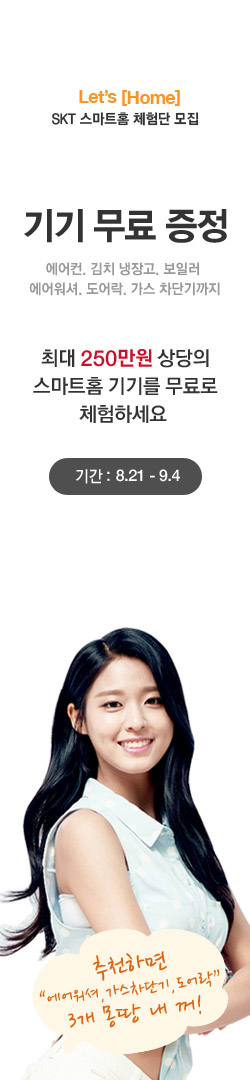
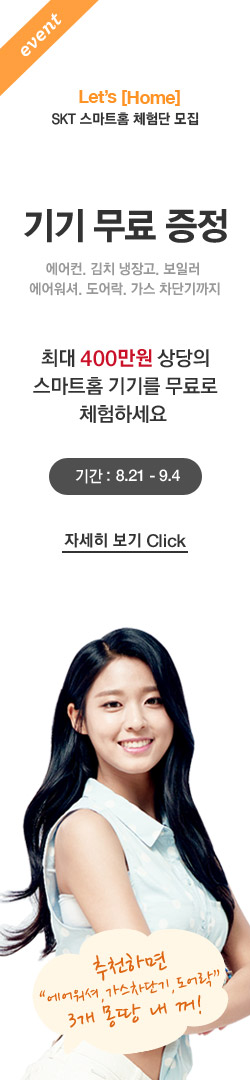
#수정 요청사항 반영 -이벤트 이미지 변경 -CF 작은 창으로 보기 -실명인증 후 다시 실명인증 물어보는 문제 해결

Changed region(s): [[0.0, 0.0, 0.392, 0.0917], [0.252, 0.4889, 0.756, 0.5194], [0.308, 0.3056, 0.42, 0.3361]]

diff --git a/js/paymentPop.js b/js/paymentPop.js
@@ -186,8 +186,10 @@ function setTicketList(dataList, kind) {
 				output += '		</div>';
 				output += '		<div class="voucher-card-buttons">';
 			if(rnmCertYn != "Y") {	//실명인증 전이면
-				output += '			<button class="bt-purchase-credit" type="button" onclick=payPopupFail("realName")>신용카드 결제</button>';
-				output += '			<button class="bt-purchase-cell" type="button" onclick=payPopupFail("realName")>휴대폰 결제</button>';	
+				// output += '			<button class="bt-purchase-credit" type="button" onclick=payPopupFail("realName")>신용카드 결제</button>';
+				// output += '			<button class="bt-purchase-cell" type="button" onclick=payPopupFail("realName")>휴대폰 결제</button>';	기
+				output += '			<button class="bt-purchase-credit" type="button" onclick=retryRealNm("'+cardHref[i]+'","CD")>신용카드 결제</button>';
+				output += '			<button class="bt-purchase-cell" type="button" onclick=retryRealNm("'+hphoneHref[i]+'","HP")>휴대폰 결제</button>';					
 			} else {
 
 				if(dataList[i].dvcRegYn !='Y') {	//등록된 기기가 없으면
@@ -294,6 +296,11 @@ function payPopupFail(msgId) {
 
 	var templateId;
 
+	//실명인증 여부를 다시 조회하기 
+	if(msgId == 'realName') {
+
+	}
+
 		switch (msgId) {
 			case 'realName': templateId = 'dialog-name-verify-info';	//실명 인증 안내
 				break;
@@ -317,6 +324,36 @@ function payPopupFail(msgId) {
 			});				
 		}
 	})
+}
+
+//실명인증 여부를 다시 조회
+function retryRealNm(pgLink,pgType) {
+	var params = {}, url='v1/member/info', type='GET', dataType = 'json';
+	startMyInfoTransaction(url, type, dataType, function(response){
+		parseRealNmTransaction(response,pgLink,pgType);		
+	});	
+}
+
+function parseRealNmTransaction(response,pgLink,pgType) {
+	if (response.resultCd && response.resultMsg) {
+		if (response.resultCd == '1' && response.resultMsg == '성공') {
+			var rnmCertYn = response.rnmCertYn;
+			setRealNmCertYn(rnmCertYn);
+
+			if(rnmCertYn != 'Y') {
+				payPopupFail("realName");
+			} else {
+				//결제 팝업 띄우기
+				if(pgType == 'CD') {
+					window.open(pgLink,"카드결제","width=450,height=620,toolbar=no,menubar=no,location=no,status=no,scrollbars=no,resizable=no");
+				} else {
+					window.open(pgLink,"휴대폰결제","width=480,height=750,toolbar=no,menubar=no,location=no,status=no,scrollbars=no,resizable=no");				
+				}
+			}
+		} else {
+		}
+	} else {
+	}
 }
 
 //기기 등록 안내, 자동결제 완료 확인 팝업 : 비슷한 포맷 

diff --git a/html/home.html b/html/home.html
@@ -15,25 +15,18 @@
 <script type="text/javascript" src="../js/showroom.js"></script>
 <script type="text/javascript" src="../js/transaction.js"></script>
 <script type="text/javascript" src="../js/placeholders.min.js"></script>
-<script>
-	function ieVersionChk() {
-		U.dialog({
-			templateId: 'dialog-template-ie-support',
-			onOpen: function(context) {
-				$(context).find('.bt-confirm').on('click', function() {
-					U.dialog();
-				});
-			}
-		})
-	}
-
-	$('document').ready(function(){
-		var a = navigator.userAgent;
-			if (/MSIE 9.|MSIE 8.|MSIE 7./i.test(a)) {
-				ieVersionChk();
-			}	
-	});	
+<!-- 수정 시작 : 20150821_01 -->
+<script id="dialog-template-cf" type="text/x-dialog-template">
+	<div class="dialog dialog-video">
+		<button class="bt-dialog-close" type="button">Close</button>
+		<div class="dialog-body">
+			<div class="dialog-content-panel">
+				<iframe class="video-viewer" src="https://www.youtube.com/embed/M0za4b65wLY?autoplay=1" allowfullscreen></iframe>
+			</div>
+		</div>
+	</div>
 </script>
+<!-- 수정 종료 : 20150821_01 -->
 <script id="dialog-template-video" type="text/x-dialog-template">
 	<div class="dialog dialog-video">
 		<button class="bt-dialog-close" type="button">Close</button>
@@ -669,6 +662,15 @@
 			return false;
 		});
 
+		// 수정 시작 : 20150821_01
+		$('.show-cf').on('click', function() {
+			U.dialog({
+				templateId: 'dialog-template-cf'
+			});
+
+			return false;
+		});
+		// 수정 종료 : 20150821_01
 	});
 </script>
 
